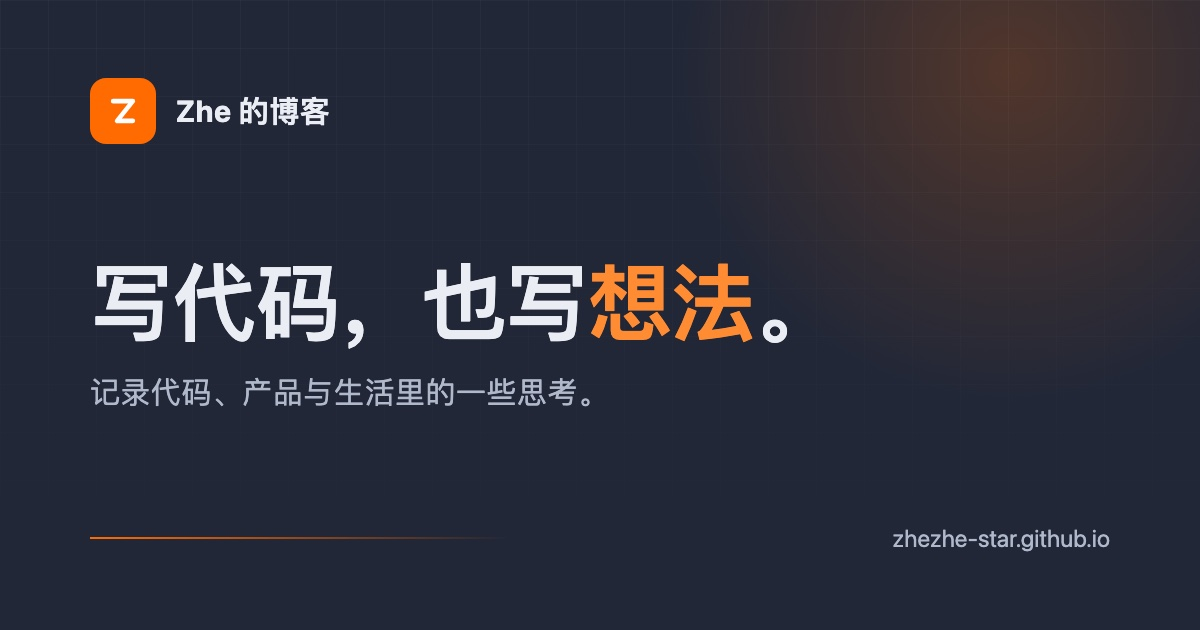
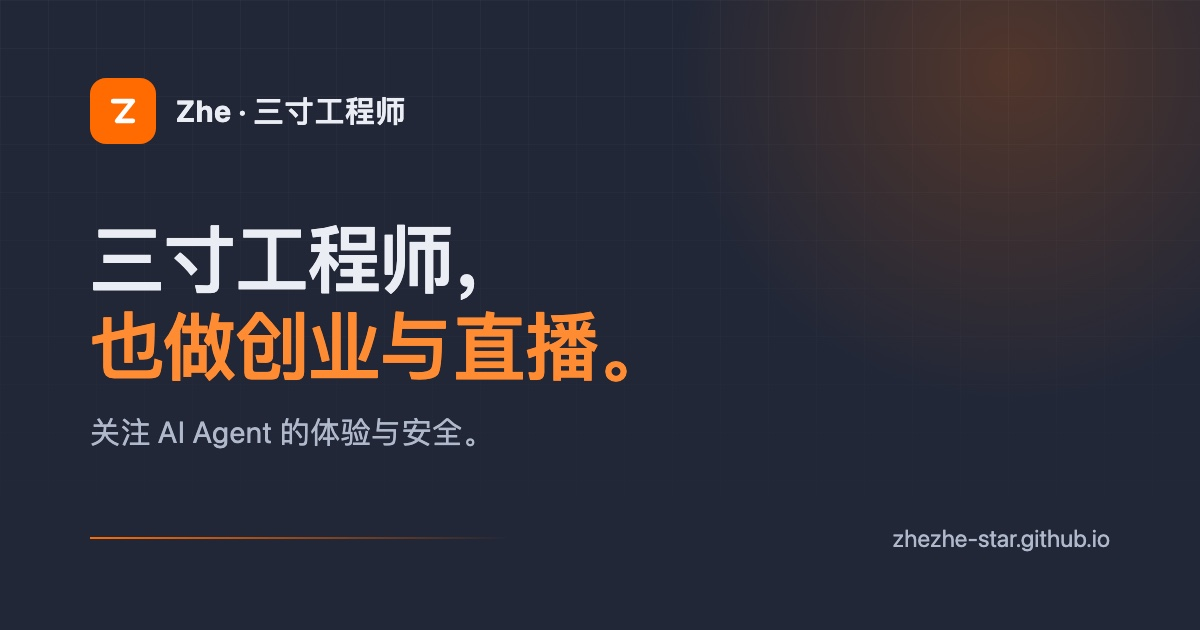
Refine personal positioning and homepage intro

Changed region(s): [[0.0617, 0.3619, 0.6783, 0.7238], [0.185, 0.1508, 0.3392, 0.2111]]

diff --git a/astro-paper.config.ts b/astro-paper.config.ts
@@ -3,8 +3,9 @@ import { defineAstroPaperConfig } from "./src/types/config";
 export default defineAstroPaperConfig({
   site: {
     url: "https://zhezhe-star.github.io/",
-    title: "Zhe 的博客",
-    description: "记录代码、产品与生活里的一些想法。",
+    title: "Zhe · 三寸工程师",
+    description:
+      "三寸工程师。做创业，也做稳定直播；关注 AI Agent 的体验与安全。",
     author: "Zhe",
     profile: "https://github.com/zhezhe-star",
     ogImage: "default-og.jpg",

diff --git a/src/content/pages/about.md b/src/content/pages/about.md
@@ -3,16 +3,27 @@ title: "关于"
 description: "关于我和这个博客。"
 ---
 
-你好，我是 **Zhe**。
+你好，我是 **Zhe**，一个三寸工程师。
 
-平时写代码、做产品，也喜欢折腾各种工具。这个博客主要放两类内容：我做过的东西，和我写下的文章。
+对“三寸”有些认知。能做创业，但以稳定直播为主；现在非常关注 AI Agent 的体验和安全。
 
-## 关于这个博客
+## 三个方向
 
-- 基于 [Astro](https://astro.build/) 和 [AstroPaper](https://github.com/satnaing/astro-paper) 主题
-- 使用 Markdown / MDX 写作
-- 托管在 GitHub Pages，推送即自动部署
-- 支持深色模式、全文搜索、标签和归档
+**三寸工程师**  
+对“三寸”有些认知，关注技术里的深度与分寸。
+
+**创业 × 直播**  
+能做创业，但以稳定直播为主；既能从 0 到 1，也愿意长期经营。
+
+**AI Agent**  
+非常关注 Agent 的体验与安全：既关心好不好用，也关心能不能放心用。
+
+## 这个博客
+
+主要放两类内容：
+
+- **项目**：我做过的东西，以及每个项目的核心亮点
+- **文章**：技术、产品、创业和 AI Agent 相关的思考
 
 ## 找到我
 
